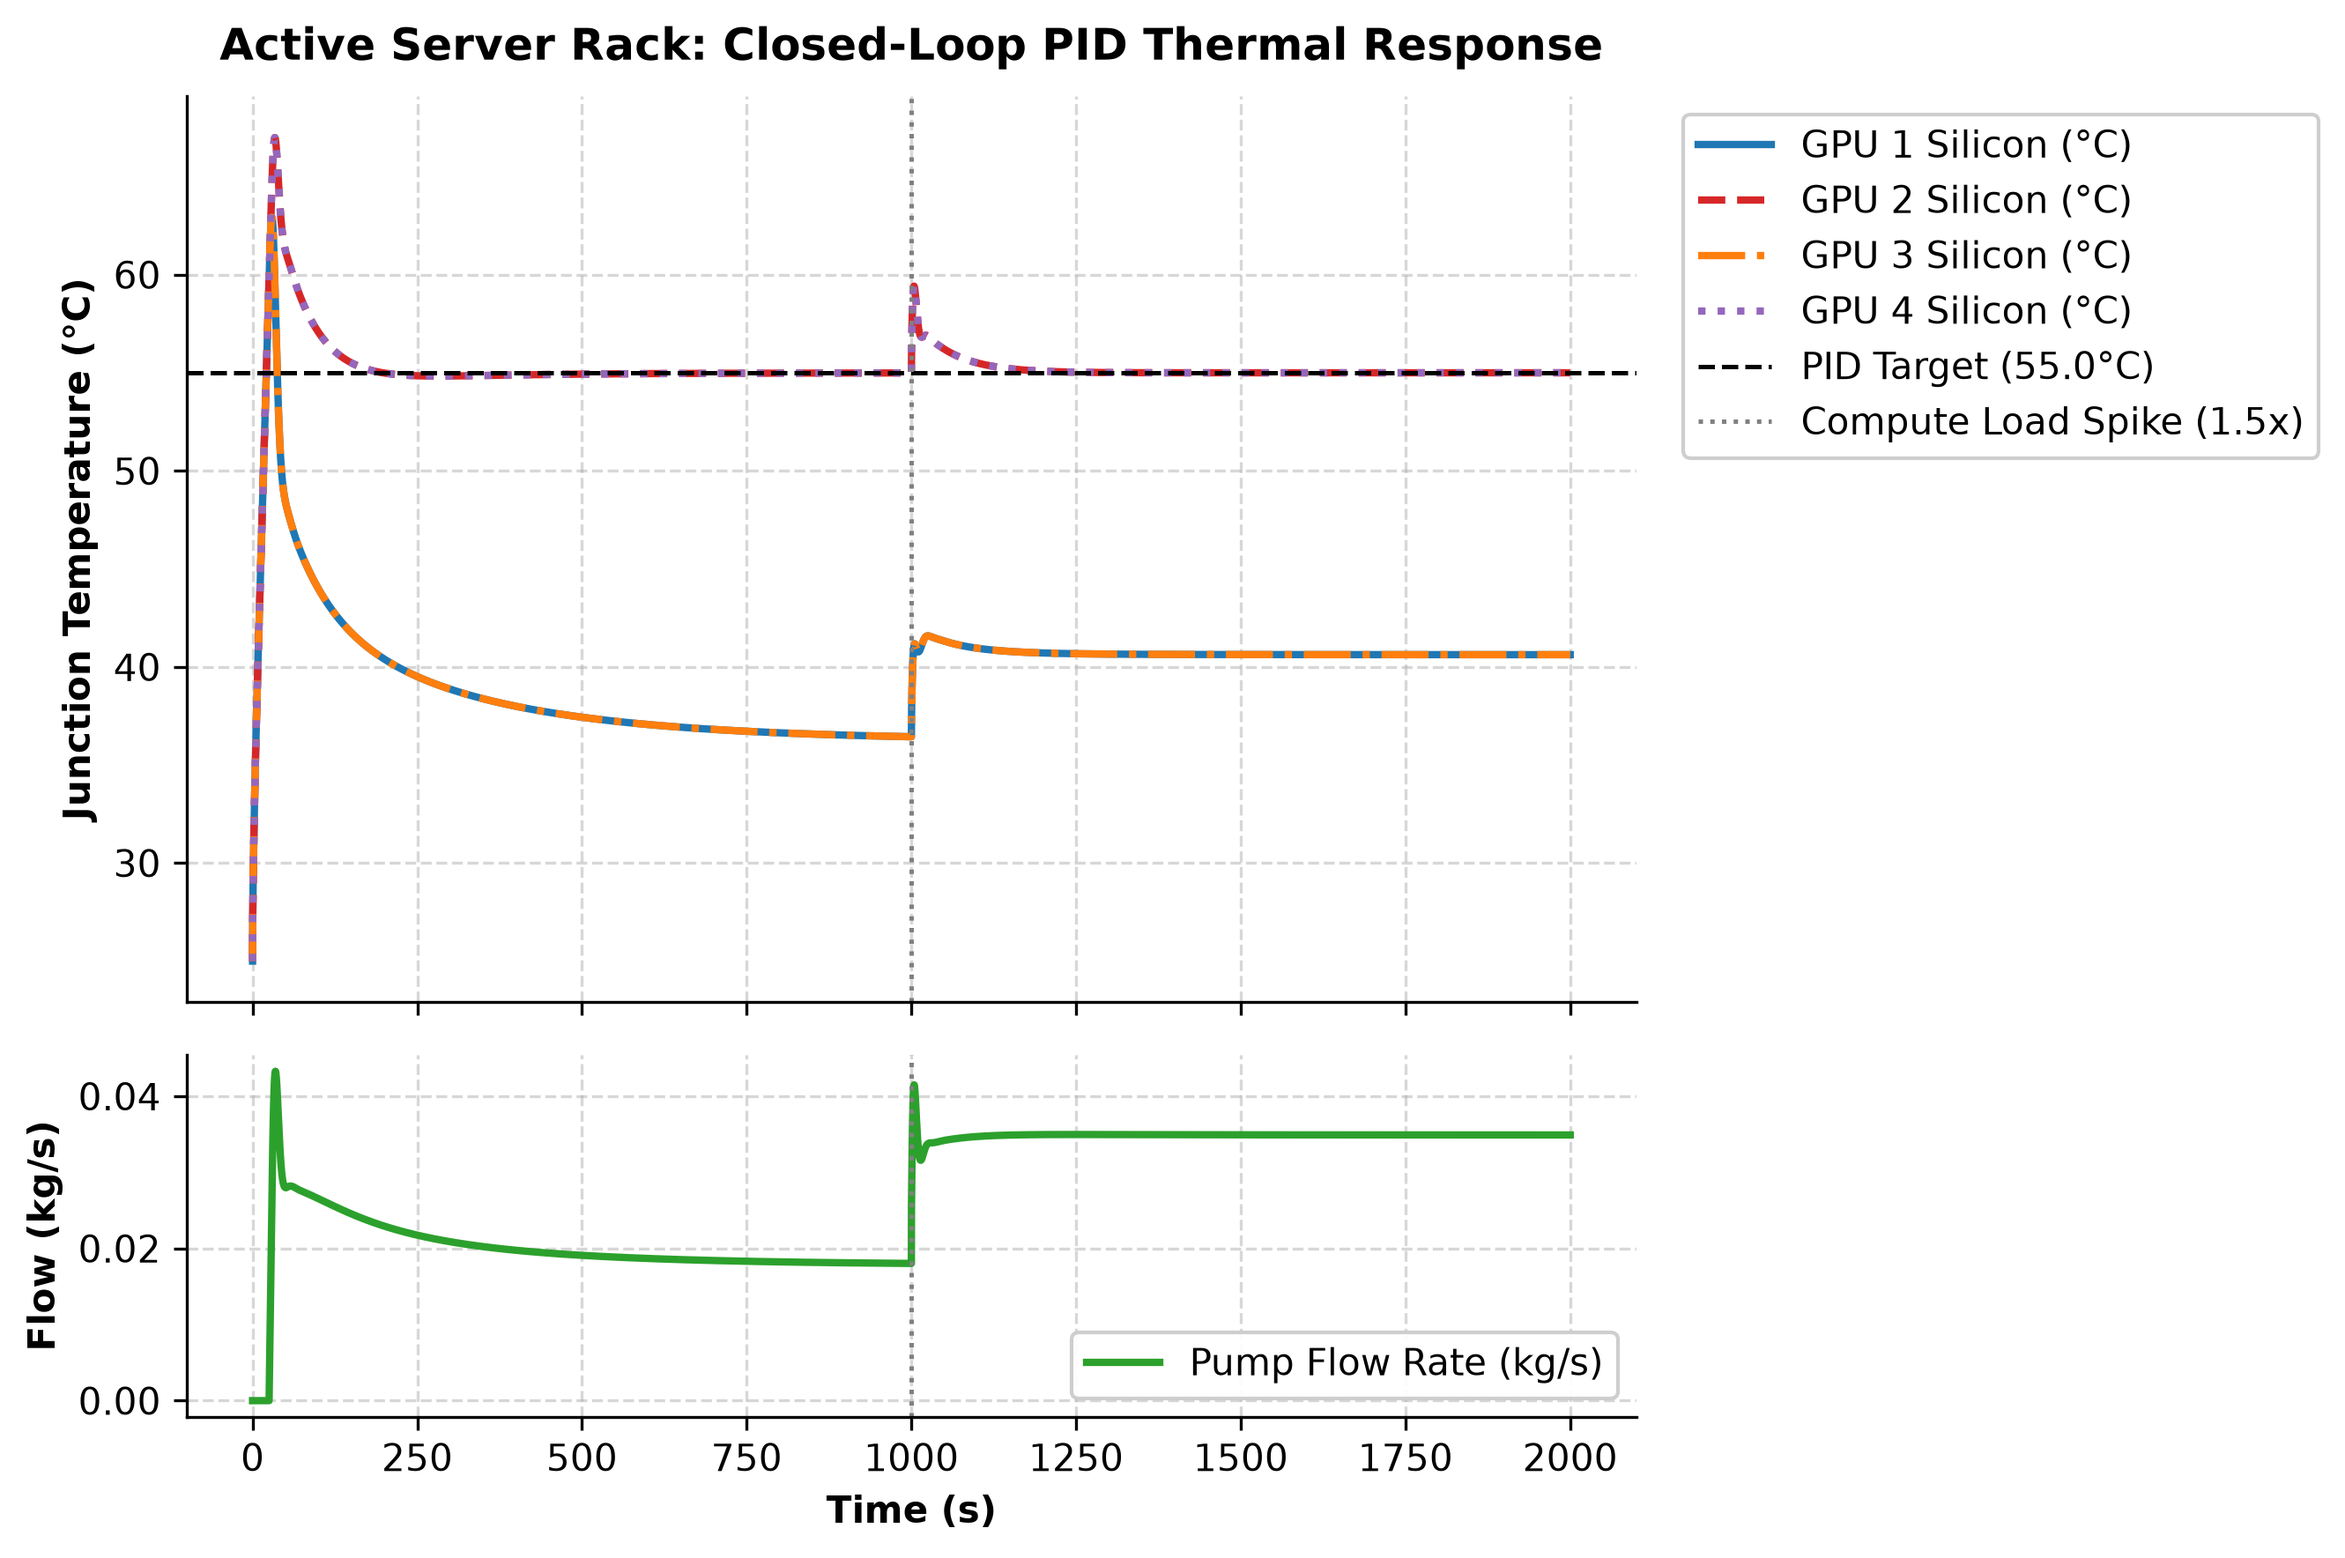
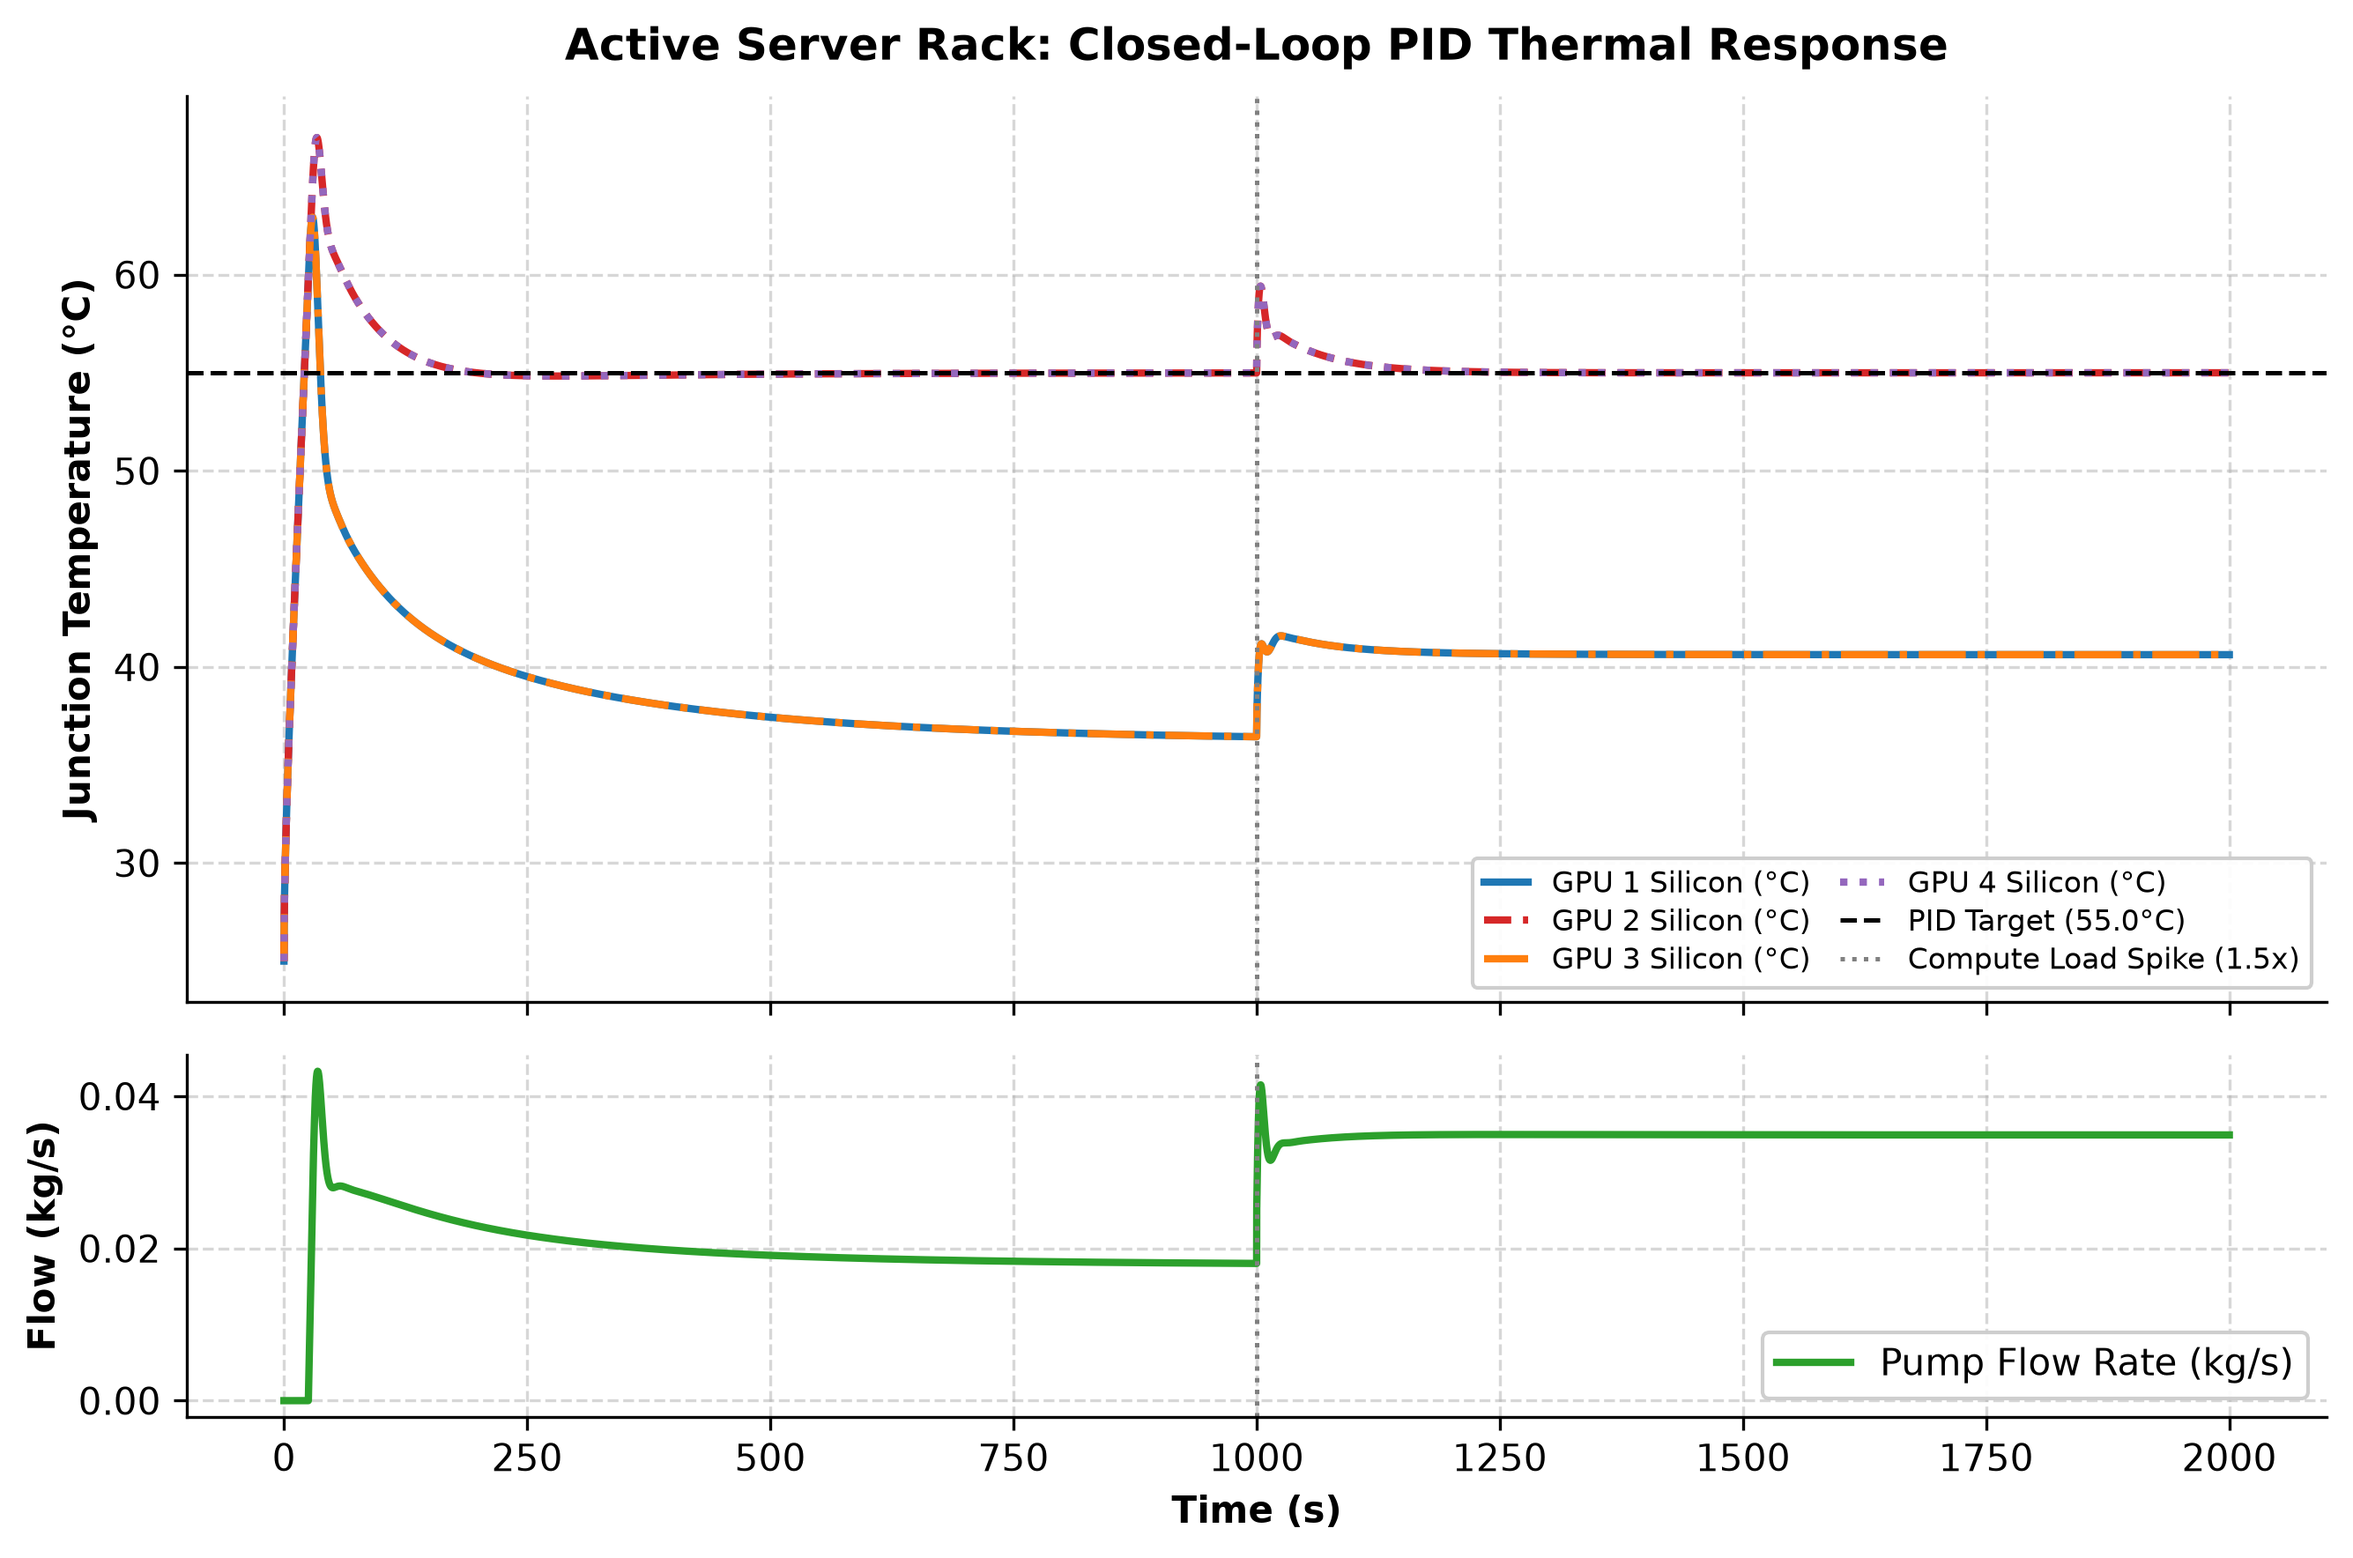
Updated thermal response plot legend

diff --git a/src/visualization.py b/src/visualization.py
@@ -34,7 +34,16 @@ def render_simulation_dashboard(network: ThermalNetwork, sim_settings: Dict[str,
 
     ax1.set_title("Active Server Rack: Closed-Loop PID Thermal Response", fontweight='bold', pad=10)
     ax1.set_ylabel("Junction Temperature (°C)", fontweight='bold')
-    ax1.legend(bbox_to_anchor=(1.02, 1), loc="upper left", framealpha=0.95)
+    ax1.legend(
+    loc="lower right",
+    ncol=2,
+    fontsize=8,
+    framealpha=0.95,
+    labelspacing=0.3,
+    columnspacing=1.0,
+    borderpad=0.4,
+    handlelength=1.5
+    )
     ax1.grid(True, linestyle='--', alpha=0.5)
     ax1.spines['top'].set_visible(False)
     ax1.spines['right'].set_visible(False)
